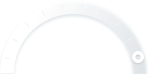
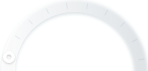
no message

diff --git a/front-pc/src/components/Role.vue b/front-pc/src/components/Role.vue
@@ -235,7 +235,7 @@ export default {
         const { id } = this.assignResForm;
 
         const resourceIds = this.$refs.resTree.getCheckedKeys().join(',');
-        if (resourceIds){
+        if (resourceIds) {
           const { code, message } = (await this.$http.post('/api/manager/role/refroleandresources', { roleId: id, resourceIds })).body;
           if (code !== '200') throw new Error(message);
         } else {

diff --git a/front-pc/src/components/Monitor.vue b/front-pc/src/components/Monitor.vue
@@ -39,7 +39,7 @@
         <div style="flex:1;background:#fff;margin-left:10px;">
           可用车辆
           <div>
-            <img src="/static/half-ring.png" style="background:#e9457d;"/>
+            <img src="/static/half-ring-1.png" style="background:#e9457d;"/>
           </div>
         </div>
         <div style="flex:1;background:#fff;margin-left:10px;">待修车辆

diff --git a/front-pc/src/components/Battery.vue b/front-pc/src/components/Battery.vue
@@ -170,7 +170,7 @@ export default {
 
     showForm(form = { }) {
       const $form = this.$refs.form;
-      if($form) $form.resetFields();
+      if ($form) $form.resetFields();
       this.form = _.pick(form, [
         'id',
         'batteryCode',

diff --git a/front-pc/src/components/Vehicle.vue b/front-pc/src/components/Vehicle.vue
@@ -164,7 +164,7 @@ export default {
 
     showForm(form = { }) {
       const $form = this.$refs.form;
-      if($form) $form.resetFields();
+      if ($form) $form.resetFields();
       this.form = _.pick(form, [
         'id',
         'vehicleCode',
